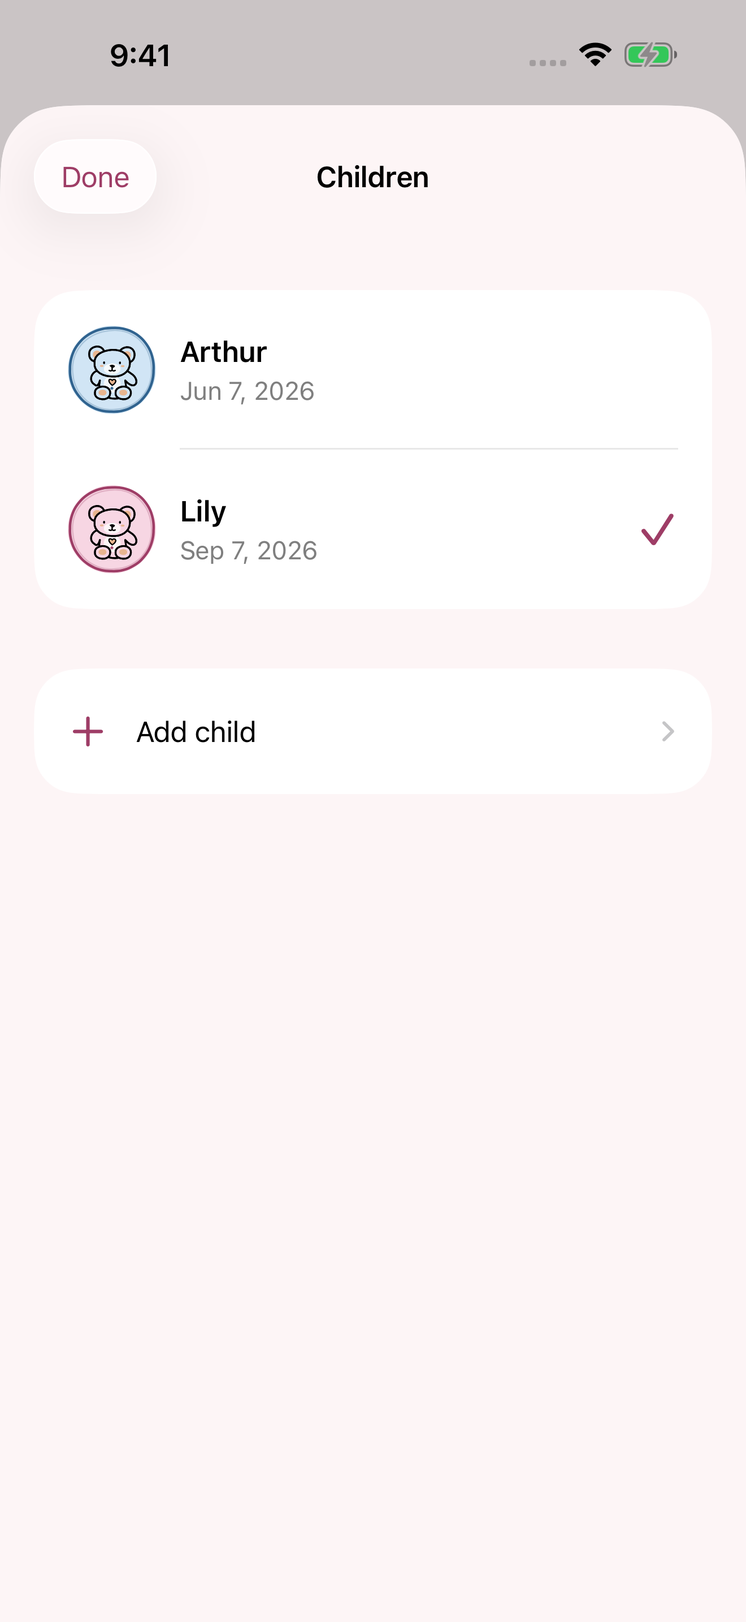
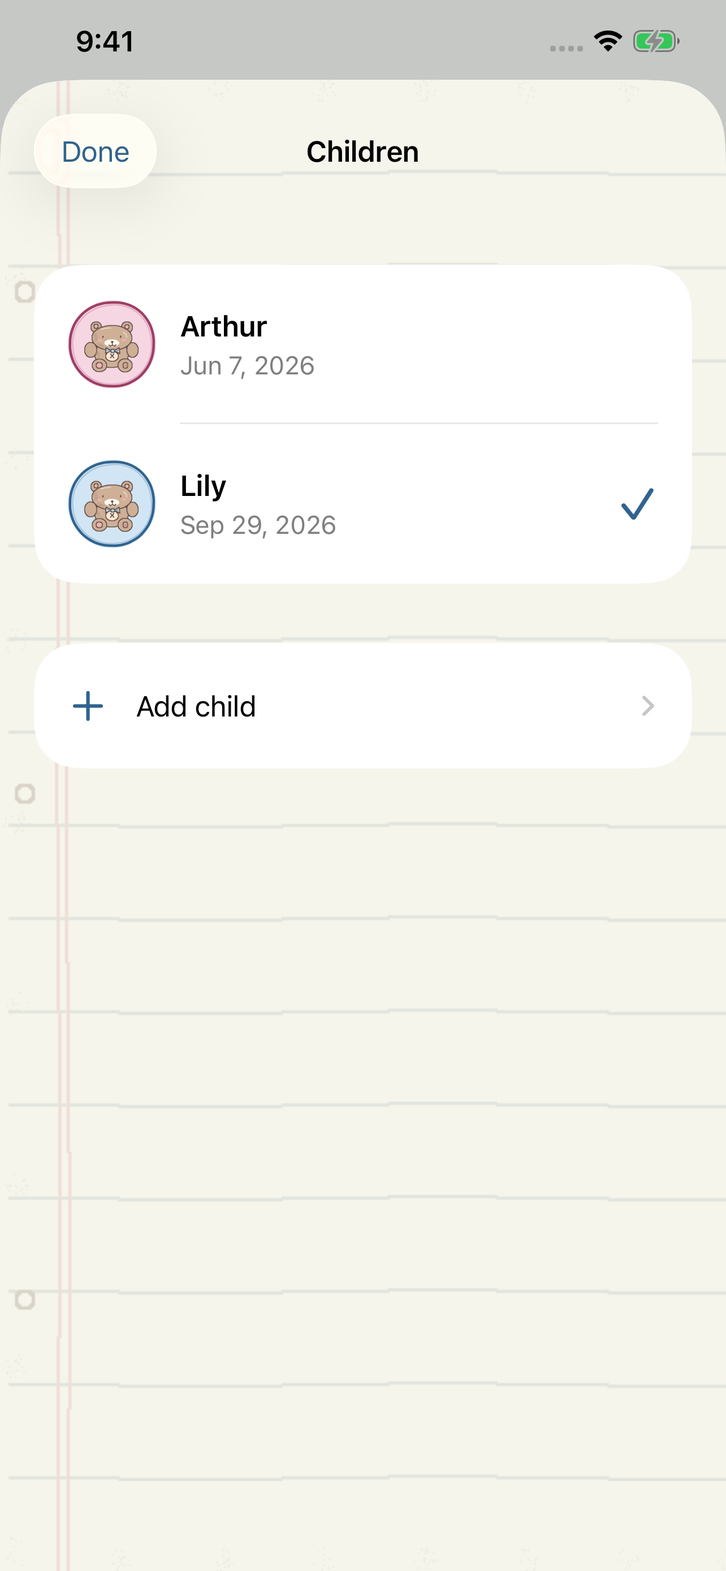
Rebrand public site as Nuzzlebook with updated care screens

diff --git a/site/index.html b/site/index.html
@@ -3,23 +3,23 @@
 <head>
   <meta charset="utf-8">
   <meta name="viewport" content="width=device-width, initial-scale=1">
-  <meta name="theme-color" content="#fbf6eb">
-  <meta name="description" content="BabyBrief is a quiet baby notebook for exhausted parents and caregivers. See what matters now, share one notebook per child, and keep the details together.">
-  <meta property="og:title" content="BabyBrief — a quieter baby notebook">
-  <meta property="og:description" content="Feeds, diapers, sleep, medicine, and the little notes parents need to share.">
+  <meta name="theme-color" content="#fff8ee">
+  <meta name="description" content="A cozy, hand-drawn baby tracker for feeds, sleep, diapers, medicine and shared care. Little logs. More cuddles.">
+  <meta property="og:title" content="Nuzzlebook — little logs, more cuddles">
+  <meta property="og:description" content="A little notebook for your little one. Log care, choose reminders and share the day with the people who help.">
   <meta property="og:type" content="website">
   <meta property="og:image" content="https://xwhiptail.github.io/babybrief-site/assets/app-icon.png">
   <link rel="canonical" href="https://xwhiptail.github.io/babybrief-site/">
   <meta name="twitter:card" content="summary">
-  <title>BabyBrief — a quieter baby notebook</title>
-  <link rel="icon" href="assets/app-icon.svg" type="image/svg+xml">
-  <link rel="stylesheet" href="styles.css">
+  <title>Nuzzlebook — little logs, more cuddles</title>
+  <link rel="icon" href="assets/app-icon.png?v=fe44224a40" type="image/png">
+  <link rel="stylesheet" href="styles.css?v=25c2ee9012">
 </head>
 <body>
   <header class="site-header wrap">
-    <a class="brand" href="./" aria-label="BabyBrief home">
-      <img src="assets/app-icon.svg" alt="">
-      <span>BabyBrief</span>
+    <a class="brand" href="./" aria-label="Nuzzlebook home">
+      <img src="assets/app-icon.png?v=fe44224a40" alt="">
+      <img class="brand-wordmark" src="assets/nuzzlebook-wordmark.png?v=e72439613a" alt="Nuzzlebook">
     </a>
     <nav aria-label="Site navigation">
       <a href="#notebook">The notebook</a>
@@ -32,9 +32,9 @@
   <main>
     <section class="hero wrap">
       <div>
-        <div class="eyebrow">The quiet baby notebook</div>
-        <h1>Less to remember.<br><span>More to share.</span></h1>
-        <p class="lede">BabyBrief keeps feeds, diapers, sleep, medicine, and small notes in one calm place—so exhausted parents can see what matters now.</p>
+        <div class="eyebrow">A little notebook for your little one</div>
+        <h1>Little logs.<br><span>More cuddles.</span></h1>
+        <p class="lede">The last bottle. That lovely long nap. Who changed the diaper. Keep the little details together in a cozy, hand-drawn baby notebook.</p>
         <div class="actions">
           <a class="button" href="#notebook">See the notebook</a>
           <a class="button secondary" href="support.html">Get help</a>
@@ -42,11 +42,11 @@
         <div class="hero-note">Coming to the App Store. Works offline, with optional iCloud sharing.</div>
       </div>
       <div class="hero-art" aria-hidden="true">
-        <div class="doodle sun">☼</div>
+        <img class="cuddle-bear" src="assets/app-icon.png?v=fe44224a40" alt="">
         <div class="doodle heart">♡</div>
         <div class="doodle star">✦</div>
         <div class="doodle line">⌁</div>
-        <div class="hero-phone"><img src="assets/now-light.png" alt=""></div>
+        <div class="hero-phone"><img src="assets/now-light.png?v=51f10077e5" alt=""></div>
       </div>
     </section>
 
@@ -57,18 +57,18 @@
             <div class="eyebrow">Made for 3 a.m.</div>
             <h2>A tiny notebook<br>for a very full day.</h2>
           </div>
-          <p>Open BabyBrief and the next useful thing is already there. Choose only the care actions your family uses, then keep the rest out of the way.</p>
+          <p>Open Nuzzlebook and the next useful thing is already there. Choose only the care actions your family uses, then keep the rest out of the way.</p>
         </div>
         <div class="feature-grid">
           <article class="feature">
             <span class="feature-mark" aria-hidden="true">☼</span>
             <h3>Now, at a glance</h3>
-            <p>See the latest feed, diaper, sleep, and medicine status without digging through a dashboard.</p>
+            <p>Keep your little one’s name front and center, with the latest care and bold daily totals just below.</p>
           </article>
           <article class="feature">
             <span class="feature-mark" aria-hidden="true">✦</span>
             <h3>One notebook per child</h3>
-            <p>Add siblings, switch with a visible button, and keep each child’s history, photo, theme, and settings separate.</p>
+            <p>A notebook for Arthur. A notebook for Lily. Keep each child’s care, photo, colors and settings together.</p>
           </article>
           <article class="feature">
             <span class="feature-mark" aria-hidden="true">♡</span>
@@ -77,8 +77,8 @@
           </article>
           <article class="feature">
             <span class="feature-mark" aria-hidden="true">⌁</span>
-            <h3>Drawn for tired eyes</h3>
-            <p>Hand-drawn nursery doodles, blue or pink themes, dark appearance, Dynamic Type, and Reduce Motion support.</p>
+            <h3>A soft place to land</h3>
+            <p>A sleepy bear, hand-lettered headings and nursery doodles. Choose blue, pink or a gentle dark appearance, with text that follows your iPhone’s text-size setting.</p>
           </article>
         </div>
       </div>
@@ -88,36 +88,46 @@
       <div class="wrap">
         <div class="section-intro">
           <div>
-            <div class="eyebrow">Inside BabyBrief</div>
+            <div class="eyebrow">Inside Nuzzlebook</div>
             <h2>Everything has a place.</h2>
           </div>
-          <p>Simple screens, clear labels, and a little warmth for the parts of parenting that happen on too little sleep.</p>
+          <p>Real screens from Nuzzlebook, with made-up names and care notes. A little warmth for the days that blur together.</p>
         </div>
         <div class="screens">
           <figure class="screen-card">
-            <img src="assets/now-light.png" alt="BabyBrief Now screen showing status rows and direct care actions" loading="lazy">
-            <figcaption><strong>What matters now</strong>One glance for the next handoff.</figcaption>
+            <img src="assets/now-light.png?v=51f10077e5" alt="Nuzzlebook Now screen with Arthur’s centered name, care actions and daily totals" width="1284" height="2778" loading="lazy">
+            <figcaption><strong>A little less to remember</strong>Today’s totals and care actions, together.</figcaption>
           </figure>
           <figure class="screen-card">
-            <img src="assets/now-pink.png" alt="BabyBrief pink notebook theme with hand-drawn nursery doodles" loading="lazy">
-            <figcaption><strong>Your notebook, your colors</strong>Blue for boy, pink for girl, or simply what feels right.</figcaption>
+            <img src="assets/medicine.png?v=c25ae0baf4" alt="Nuzzlebook medicine form with a recent medicine name and a dose explicitly chosen by the user" width="1284" height="2778" loading="lazy">
+            <figcaption><strong>The details, written down</strong>Medicine names, amounts and recent entries.</figcaption>
           </figure>
           <figure class="screen-card">
-            <img src="assets/children.png" alt="BabyBrief Children picker showing two separate child profiles" loading="lazy">
-            <figcaption><strong>More than one little one</strong>Switch children without mixing their notes.</figcaption>
+            <img src="assets/reminders.png?v=496fe423f9" alt="Nuzzlebook feeding reminder editor set to an example three-hour interval" width="1284" height="2778" loading="lazy">
+            <figcaption><strong>A nudge when you choose</strong>Set a care interval for this child.</figcaption>
           </figure>
           <figure class="screen-card">
-            <img src="assets/history-second-child.png" alt="BabyBrief History screen showing a child name and a medicine note" loading="lazy">
-            <figcaption><strong>A history you can trust</strong>Know who the note belongs to.</figcaption>
+            <img src="assets/history.png?v=405455d9fb" alt="Arthur’s care history in Nuzzlebook" width="1284" height="2778" loading="lazy">
+            <figcaption><strong>Catch up on the little things</strong>See what happened and who logged it.</figcaption>
           </figure>
           <figure class="screen-card">
-            <img src="assets/settings-tracking.png" alt="BabyBrief Settings screen with tracking choices" loading="lazy">
-            <figcaption><strong>Only track what helps</strong>Turn categories off while keeping old notes.</figcaption>
+            <img src="assets/now-pink.png?v=d06da15837" alt="Nuzzlebook pink notebook with a centered child heading" width="1284" height="2778" loading="lazy">
+            <figcaption><strong>Make their notebook feel like theirs</strong>Pick blue or pink, whatever feels right.</figcaption>
           </figure>
           <figure class="screen-card">
-            <img src="assets/add-child.png" alt="BabyBrief Add child screen with photo and theme choices" loading="lazy">
-            <figcaption><strong>Make room for another child</strong>Add a profile with an optional photo and theme.</figcaption>
+            <img src="assets/now-dark.png?v=885a15ee50" alt="Nuzzlebook Now screen in dark appearance" width="1284" height="2778" loading="lazy">
+            <figcaption><strong>For the midnight cuddles</strong>A softer screen for the late shift.</figcaption>
           </figure>
+        </div>
+      </div>
+    </section>
+
+    <section class="section kickered">
+      <div class="wrap section-intro">
+        <div><div class="eyebrow">One less thing on your mind</div><h2>Little helpers, close by.</h2></div>
+        <div class="helpers">
+          <h3>Reminders on your terms</h3><p>Choose your own interval for feeds, diapers or a named medicine. Tap a reminder to open that child’s Now page. These are reminders you set, not care recommendations.</p>
+          <h3>A quick note from Home</h3><p>Add the Nuzzlebook widget for quick care entries from your Home Screen. Medicine choices come from names and doses you have already logged.</p>
         </div>
       </div>
     </section>
@@ -142,7 +152,7 @@
         <div>
           <div class="eyebrow">Quiet by design</div>
           <h2>Your family’s notes stay yours.</h2>
-          <p>BabyBrief is built around local storage and opt-in iCloud sharing. It has no advertising or third-party analytics, and the optional photo is prepared on the device before it is saved.</p>
+          <p>Nuzzlebook is built around local storage and opt-in iCloud sharing. It has no advertising or third-party analytics, and the optional photo is prepared on the device before it is saved.</p>
         </div>
         <a class="button secondary" href="privacy.html">Read the privacy policy</a>
       </div>
@@ -151,7 +161,7 @@
 
   <footer class="site-footer">
     <div class="wrap footer-row">
-      <p>© 2026 BabyBrief. A quiet notebook for the people who care.</p>
+      <p>© 2026 Nuzzlebook. Little logs. More cuddles.</p>
       <div class="footer-links"><a href="privacy.html">Privacy</a><a href="support.html">Support</a><a href="https://github.com/xwhiptail/babybrief-site">GitHub</a></div>
     </div>
   </footer>

diff --git a/site/privacy.html b/site/privacy.html
@@ -3,25 +3,25 @@
 <head>
   <meta charset="utf-8">
   <meta name="viewport" content="width=device-width, initial-scale=1">
-  <meta name="description" content="BabyBrief privacy policy. Learn what the app stores locally and what is shared with iCloud when you choose to invite caregivers.">
-  <title>Privacy Policy — BabyBrief</title>
-  <link rel="icon" href="assets/app-icon.svg" type="image/svg+xml">
-  <link rel="stylesheet" href="styles.css">
+  <meta name="description" content="Nuzzlebook privacy policy. Learn what the app stores locally and what is shared with iCloud when you choose to invite caregivers.">
+  <title>Privacy Policy — Nuzzlebook</title>
+  <link rel="icon" href="assets/app-icon.png?v=fe44224a40" type="image/png">
+  <link rel="stylesheet" href="styles.css?v=25c2ee9012">
 </head>
 <body>
   <header class="site-header wrap">
-    <a class="brand" href="./" aria-label="BabyBrief home"><img src="assets/app-icon.svg" alt=""><span>BabyBrief</span></a>
+    <a class="brand" href="./" aria-label="Nuzzlebook home"><img src="assets/app-icon.png?v=fe44224a40" alt=""><img class="brand-wordmark" src="assets/nuzzlebook-wordmark.png?v=e72439613a" alt="Nuzzlebook"></a>
     <nav aria-label="Site navigation"><a href="./">Home</a><a href="support.html">Support</a></nav>
   </header>
   <main class="policy wrap">
-    <div class="eyebrow">BabyBrief</div>
+    <div class="eyebrow">Nuzzlebook</div>
     <h1>Privacy Policy</h1>
-    <p class="updated">Effective September 8, 2026</p>
+    <p class="updated">Effective September 29, 2026</p>
 
-    <p>BabyBrief is a care notebook for parents and caregivers. This policy explains what the app stores, when it uses Apple iCloud, and the choices you have. BabyBrief is not intended for children to use on their own and is not medical advice.</p>
+    <p>Nuzzlebook is a care notebook for parents and caregivers. This policy explains what the app stores, when it uses Apple iCloud, and the choices you have. Nuzzlebook is not intended for children to use on their own and is not medical advice.</p>
 
     <h2>What you enter</h2>
-    <p>Depending on the features you use, BabyBrief can store:</p>
+    <p>Depending on the features you use, Nuzzlebook can store:</p>
     <ul>
       <li>Child profile details such as a name, birth date, optional profile photo, notebook color, and tracking choices.</li>
       <li>Care notes such as bottle feeds, breastfeeding sessions, diapers, sleep, medicine, timestamps, amounts, and free-form notes.</li>
@@ -29,30 +29,33 @@
     </ul>
 
     <h2>Where data is stored</h2>
-    <p>BabyBrief stores notebook data locally on your iPhone using Apple’s SwiftData storage. The app can be used offline. iCloud is optional: when you enable it, BabyBrief uses Apple CloudKit to sync your notebooks and to support Apple’s private sharing sheet.</p>
+    <p>Nuzzlebook stores notebook data locally on your iPhone using Apple’s SwiftData storage. The app can be used offline. iCloud is optional: when you enable it, Nuzzlebook uses Apple CloudKit to sync your notebooks and to support Apple’s private sharing sheet.</p>
     <p>Each child has a separate notebook route. When you invite another parent or caregiver, everyone you invite can access and edit the records in that child’s shared notebook. A child’s tracking choices travel with that notebook. Apple’s iCloud terms and privacy policy also apply to data processed by iCloud.</p>
 
+    <h2>Reminders and widgets</h2>
+    <p>Care reminders are optional local notifications. Your chosen intervals and reminder settings are stored on the device; Nuzzlebook uses care timestamps to schedule them. Notification text can include a child’s name and care details, so choose the lock-screen preview setting you prefer in iPhone Settings.</p>
+    <p>The Home Screen widget shares a local care summary and pending entries with the app through Apple’s app-group storage. This allows the widget and app to use the same notebook. Adding the widget does not send this data to a Nuzzlebook-operated server.</p>
     <h2>Photos</h2>
-    <p>Photos are optional. You choose a photo through Apple’s Photos picker; BabyBrief does not request whole-library access. The selected portrait is resized and newly encoded on the device before it is stored. The encoded portrait is limited in size and does not carry the original camera or location metadata. If iCloud sharing is enabled for that child, the saved portrait follows that notebook’s sharing route.</p>
+    <p>Photos are optional. You choose a photo through Apple’s Photos picker; Nuzzlebook does not request whole-library access. The selected portrait is resized and newly encoded on the device before it is stored. The encoded portrait is limited in size and does not carry the original camera or location metadata. If iCloud sharing is enabled for that child, the saved portrait follows that notebook’s sharing route.</p>
 
     <h2>What we do not do</h2>
-    <p>BabyBrief does not use third-party advertising, third-party analytics, or cross-app tracking. The app does not create a separate BabyBrief account. iCloud uses the Apple account already signed in on the device for Apple’s storage and sharing services.</p>
+    <p>Nuzzlebook does not use third-party advertising, third-party analytics, or cross-app tracking. The app does not create a separate Nuzzlebook account. iCloud uses the Apple account already signed in on the device for Apple’s storage and sharing services.</p>
 
     <h2>Deletion and retention</h2>
     <p>Your local notebook remains on your device until you delete its records, delete the child from Settings, or remove the app. Deleting a child removes that child’s profile, care events, and shifts from the local notebook. If the notebook is shared and iCloud is available, the deletion is sent through the shared notebook so participants receive it. Caregiver attribution identities can remain when another child’s notebook still uses them.</p>
-    <p>Apple controls retention and deletion in iCloud according to its services and your account settings. BabyBrief does not keep a separate copy on a BabyBrief-operated server.</p>
+    <p>Apple controls retention and deletion in iCloud according to its services and your account settings. Nuzzlebook does not keep a separate copy on a Nuzzlebook-operated server.</p>
 
     <h2>Requests and support</h2>
-    <p>For privacy questions or help with your notebook, email <a href="mailto:support@tillnext.app">support@tillnext.app</a> or visit <a href="support.html">BabyBrief Support</a>. Include only the information needed to explain your request; you do not need to send your child’s care history. We use information you send to respond to your request.</p>
+    <p>For privacy questions or help with your notebook, email <a href="mailto:support@tillnext.app">support@tillnext.app</a> or visit <a href="support.html">Nuzzlebook Support</a>. Include only the information needed to explain your request; you do not need to send your child’s care history. We use information you send to respond to your request.</p>
 
     <h2>This website</h2>
-    <p>This website is hosted by GitHub Pages. It does not use advertising, analytics scripts, or cookies added by BabyBrief. GitHub may process technical request information to serve and protect the site. GitHub’s <a href="https://docs.github.com/en/site-policy/privacy-policies/github-general-privacy-statement">privacy statement</a> applies to its hosting and support services.</p>
+    <p>This website is hosted by GitHub Pages. It does not use advertising, analytics scripts, or cookies added by Nuzzlebook. GitHub may process technical request information to serve and protect the site. GitHub’s <a href="https://docs.github.com/en/site-policy/privacy-policies/github-general-privacy-statement">privacy statement</a> applies to its hosting and support services.</p>
 
     <h2>Changes to this policy</h2>
-    <p>If BabyBrief’s data practices change, this page will be updated with a new effective date. The version of the policy that applies is the one published when you use the relevant feature.</p>
+    <p>If Nuzzlebook’s data practices change, this page will be updated with a new effective date. The version of the policy that applies is the one published when you use the relevant feature.</p>
 
-    <p><a href="./">Return to BabyBrief</a></p>
+    <p><a href="./">Return to Nuzzlebook</a></p>
   </main>
-  <footer class="site-footer"><div class="wrap footer-row"><p>© 2026 BabyBrief.</p><div class="footer-links"><a href="./">Home</a><a href="support.html">Support</a></div></div></footer>
+  <footer class="site-footer"><div class="wrap footer-row"><p>© 2026 Nuzzlebook.</p><div class="footer-links"><a href="./">Home</a><a href="support.html">Support</a></div></div></footer>
 </body>
 </html>

diff --git a/site/support.html b/site/support.html
@@ -3,34 +3,41 @@
 <head>
   <meta charset="utf-8">
   <meta name="viewport" content="width=device-width, initial-scale=1">
-  <meta name="description" content="Get help with BabyBrief, child notebooks, photos, and iCloud caregiver sharing.">
-  <title>Support — BabyBrief</title>
-  <link rel="icon" href="assets/app-icon.svg" type="image/svg+xml">
-  <link rel="stylesheet" href="styles.css">
+  <meta name="description" content="Get help with Nuzzlebook reminders, quick care entries, child notebooks and iCloud caregiver sharing.">
+  <title>Support — Nuzzlebook</title>
+  <link rel="icon" href="assets/app-icon.png?v=fe44224a40" type="image/png">
+  <link rel="stylesheet" href="styles.css?v=25c2ee9012">
 </head>
 <body>
   <header class="site-header wrap">
-    <a class="brand" href="./"><img src="assets/app-icon.svg" alt=""><span>BabyBrief</span></a>
+    <a class="brand" href="./"><img src="assets/app-icon.png?v=fe44224a40" alt=""><img class="brand-wordmark" src="assets/nuzzlebook-wordmark.png?v=e72439613a" alt="Nuzzlebook"></a>
     <nav aria-label="Site navigation"><a href="./">Home</a><a href="privacy.html">Privacy</a></nav>
   </header>
   <main class="policy wrap">
     <div class="eyebrow">A little help</div>
-    <h1>BabyBrief Support</h1>
-    <p>BabyBrief is being prepared for the App Store. If you are trying an early build, you can report a problem or ask a question below.</p>
+    <h1>Nuzzlebook Support</h1>
+    <p>Nuzzlebook is being prepared for the App Store. If you are trying an early build, you can report a problem or ask a question below.</p>
     <h2>Share a notebook</h2>
-    <p>Choose your child, open Settings, and tap Enable iCloud. Then use Invite caregiver. Each person needs BabyBrief and their own iCloud account. Invite caregivers separately for each child you want to share.</p>
+    <p>Choose your child, open Settings, and tap Enable iCloud. Then use Invite caregiver. Each person needs Nuzzlebook and their own iCloud account. Invite caregivers separately for each child you want to share.</p>
     <h2>Check a missing update</h2>
     <p>Make sure both parents have selected the same child. Check the iCloud status in Settings and use Sync now. If iCloud is unavailable, your changes remain on your phone until they can sync.</p>
     <h2>Change a profile or tracking choice</h2>
     <p>Use Settings to update a child’s name, photo, theme, or tracking choices. Turning a care category off keeps its earlier entries in History.</p>
+    <h2>Set a reminder</h2>
+    <p>Choose your child, then open Settings → Reminders. Pick a care type, turn its reminder on, set the interval you want and save. Allow notifications when your iPhone asks. A saved care entry updates the next reminder for that care type. Reminders are set on each caregiver’s device.</p>
+    <p>Tap a reminder to open Nuzzlebook on that child’s Now page. If alerts are missing, check iPhone Settings → Notifications → Nuzzlebook, as well as Focus and notification delivery settings.</p>
+    <h2>Record medicine</h2>
+    <p>Tap Medicine on Now. Enter a name, amount and unit, or choose a recent name. Choosing a name does not choose a dose: enter the amount or explicitly reuse a previous dose before saving. Follow your healthcare professional’s instructions.</p>
+    <h2>Add the Home Screen widget</h2>
+    <p>Touch and hold your iPhone’s Home Screen, choose Edit → Add Widget, then search for Nuzzlebook. Set up a child in the app first. Use the widget’s care controls to prepare and save an entry; medicine shortcuts need a previously logged medicine and dose.</p>
     <h2>Delete a child</h2>
     <p>Choose the child, then open Settings → Delete child. Read the confirmation carefully: it removes the child’s notebook and care records, including from the shared notebook when iCloud sync is available.</p>
     <h2>Ask for help</h2>
-    <p>Email us with what you expected, what happened, your iOS version, and the BabyBrief version. Include only the information needed to explain the problem; you do not need to send your child’s care history.</p>
+    <p>Email us with what you expected, what happened, your iOS version, and the Nuzzlebook version. Include only the information needed to explain the problem; you do not need to send your child’s care history.</p>
     <p><a class="button" href="mailto:support@tillnext.app">Email support</a></p>
     <p><a href="mailto:support@tillnext.app">support@tillnext.app</a></p>
     <p>For information about your data, read our <a href="privacy.html">privacy policy</a>.</p>
   </main>
-  <footer class="site-footer"><div class="wrap footer-row"><p>© 2026 BabyBrief.</p><div class="footer-links"><a href="./">Home</a><a href="privacy.html">Privacy</a></div></div></footer>
+  <footer class="site-footer"><div class="wrap footer-row"><p>© 2026 Nuzzlebook.</p><div class="footer-links"><a href="./">Home</a><a href="privacy.html">Privacy</a></div></div></footer>
 </body>
 </html>

diff --git a/site/styles.css b/site/styles.css
@@ -1,8 +1,10 @@
+@font-face { font-family: "Nuzzlebook Hand"; src: url("assets/NuzzlebookHand-Regular.woff2") format("woff2"); font-weight: 400; font-style: normal; font-display: swap; }
+
 :root {
-  --paper: #fbf6eb;
-  --paper-deep: #f2e9da;
-  --ink: #23312d;
-  --muted: #65716b;
+  --paper: #fff8ee;
+  --paper-deep: #f4e9d9;
+  --ink: #594438;
+  --muted: #746357;
   --blue: #2f6d9f;
   --blue-soft: #d9e9f5;
   --pink: #ad3e72;
@@ -130,6 +132,7 @@ h3 { margin-bottom: 10px; font-size: 1.28rem; }
 .hero-note::before { content: "✦"; color: var(--pink); }
 
 .hero-art { position: relative; padding: 24px 0 34px; }
+.cuddle-bear { position: absolute; left: -9%; top: 5%; width: 43%; z-index: 3; border-radius: 30%; transform: rotate(-8deg); box-shadow: 0 12px 30px #59443818; }
 .hero-phone {
   position: relative;
   margin: 0 6% 0 auto;
@@ -173,6 +176,7 @@ h3 { margin-bottom: 10px; font-size: 1.28rem; }
 .screens { display: grid; grid-template-columns: repeat(3, 1fr); gap: 22px; align-items: start; }
 .screen-card { margin: 0; }
 .screen-card img {
+  height: auto;
   display: block;
   width: 100%;
   border: 1px solid rgba(35, 49, 45, 0.14);
@@ -213,7 +217,7 @@ h3 { margin-bottom: 10px; font-size: 1.28rem; }
 .policy h1 { margin-bottom: 14px; font-size: clamp(2.7rem, 6vw, 5rem); }
 .policy .updated { color: var(--muted); }
 .policy h2 { margin-top: 46px; font-size: 1.75rem; }
-.policy p, .policy li { color: #4f5b55; }
+.policy p, .policy li { color: var(--muted); }
 .policy ul { padding-left: 1.25rem; }
 .policy a { color: var(--blue); }
 
@@ -249,3 +253,15 @@ h3 { margin-bottom: 10px; font-size: 1.28rem; }
 @media (prefers-reduced-motion: reduce) {
   *, *::before, *::after { scroll-behavior: auto !important; transition: none !important; }
 }
+
+
+/* Original Paint lettering is reserved for headings. */
+h1, h2, h3 { font-family: "Nuzzlebook Hand", ui-rounded, sans-serif; font-weight: 400; letter-spacing: 0; line-height: 1.18; }
+.hero h1 { font-size: clamp(2.3rem, 4.4vw, 3.5rem); }
+h3 { font-size: 1.6rem; }
+.brand .brand-wordmark { width: 148px; height: auto; border-radius: 0; box-shadow: none; }
+
+.helpers { max-width: 510px; }
+.helpers h3 { margin-top: 24px; }
+.helpers h3:first-child { margin-top: 0; }
+@media (max-width: 580px) { .cuddle-bear { left: 0; width: 38%; } }

diff --git a/site/404.html b/site/404.html
@@ -1,2 +1,2 @@
 <!doctype html>
-<html lang="en"><head><meta charset="utf-8"><meta name="viewport" content="width=device-width, initial-scale=1"><title>Page not found — BabyBrief</title><link rel="stylesheet" href="/babybrief-site/styles.css"></head><body><main class="policy wrap"><div class="eyebrow">BabyBrief</div><h1>That page wandered off.</h1><p><a class="button" href="/babybrief-site/">Back to the notebook</a></p></main></body></html>
+<html lang="en"><head><meta charset="utf-8"><meta name="viewport" content="width=device-width, initial-scale=1"><title>Page not found — Nuzzlebook</title><link rel="stylesheet" href="/babybrief-site/styles.css?v=25c2ee9012"></head><body><main class="policy wrap"><div class="eyebrow">Nuzzlebook</div><h1>That page wandered off.</h1><p><a class="button" href="/babybrief-site/">Back to the notebook</a></p></main></body></html>

diff --git a/site/README.md b/site/README.md
@@ -1,13 +1,15 @@
-# BabyBrief marketing site
+# Nuzzlebook public site
 
-This directory contains the static marketing site, privacy policy, and support page for BabyBrief.
+This is the static marketing, support and privacy site for Nuzzlebook. It keeps the existing GitHub Pages address so published links remain valid:
 
-The app repository stays private. GitHub rejected Pages activation on that repository because the current account plan does not support Pages from private repositories. The website is published separately from the public website-only repository [`xwhiptail/babybrief-site`](https://github.com/xwhiptail/babybrief-site).
+- https://xwhiptail.github.io/babybrief-site/
+- https://xwhiptail.github.io/babybrief-site/support.html
+- https://xwhiptail.github.io/babybrief-site/privacy.html
 
-Copy `site/` and [`.github/workflows/pages.yml`](../.github/workflows/pages.yml) to the public website repository's `main` branch. The workflow deploys `site/` and is gated to run only in `xwhiptail/babybrief-site`. The same canonical files remain in this private app repository, where the publishing job is skipped. Do not copy app source, family data, or other private repository files into the public repository. The public URLs are:
+The private app repository and public website repository are separate. Publish only `site/` and `.github/workflows/pages.yml` to `xwhiptail/babybrief-site`. The workflow deploys `site/` on pushes to main. Never include app source, personal records, signing material or private build files.
 
-- Marketing: <https://xwhiptail.github.io/babybrief-site/>
-- Privacy: <https://xwhiptail.github.io/babybrief-site/privacy.html>
-- Support: <https://xwhiptail.github.io/babybrief-site/support.html>
+The September 29, 2026 refresh uses the original Paint bear icon and wordmark, Nuzzlebook Hand heading font, warm cream/cocoa colors and “Little logs. More cuddles.” copy. Screens are native 1284 × 2778 simulator captures with synthetic data, including medicine, reminder configuration and dark mode. Support covers notification taps and the Home Screen widget; privacy explains local reminders and app-group storage.
 
-Deployment succeeded and all three URLs returned HTTP 200 on September 8, 2026. Support and privacy requests use [support@tillnext.app](mailto:support@tillnext.app).
+Preview locally with `python3 -m http.server 8765 --directory site`. Version query strings on images and CSS use content hashes; refresh them whenever those files change.
+
+Verification: static local-link, asset, image-alt and heading checks. App screenshots are checked separately at native resolution. Deployment details are recorded in the release delivery report.
